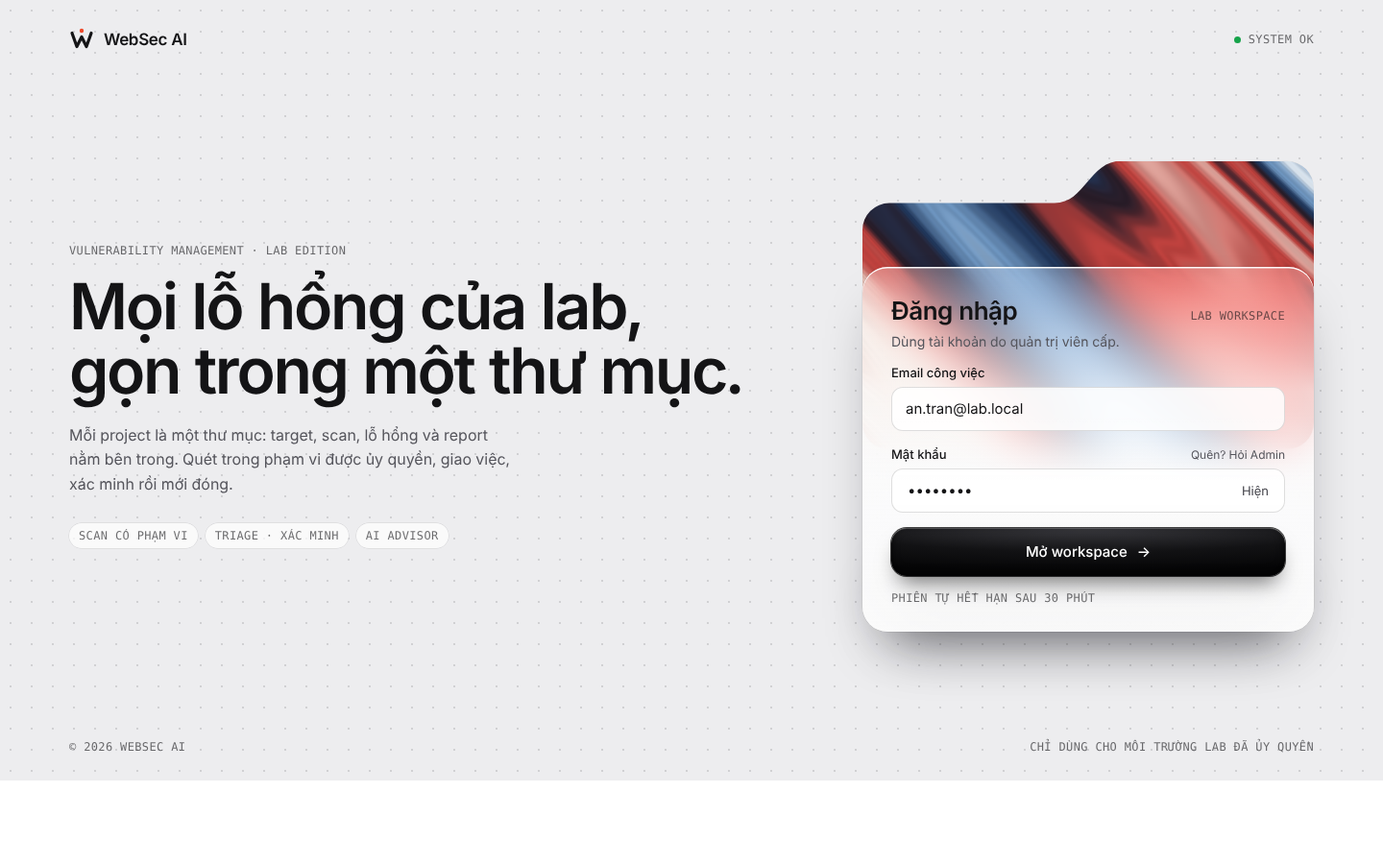
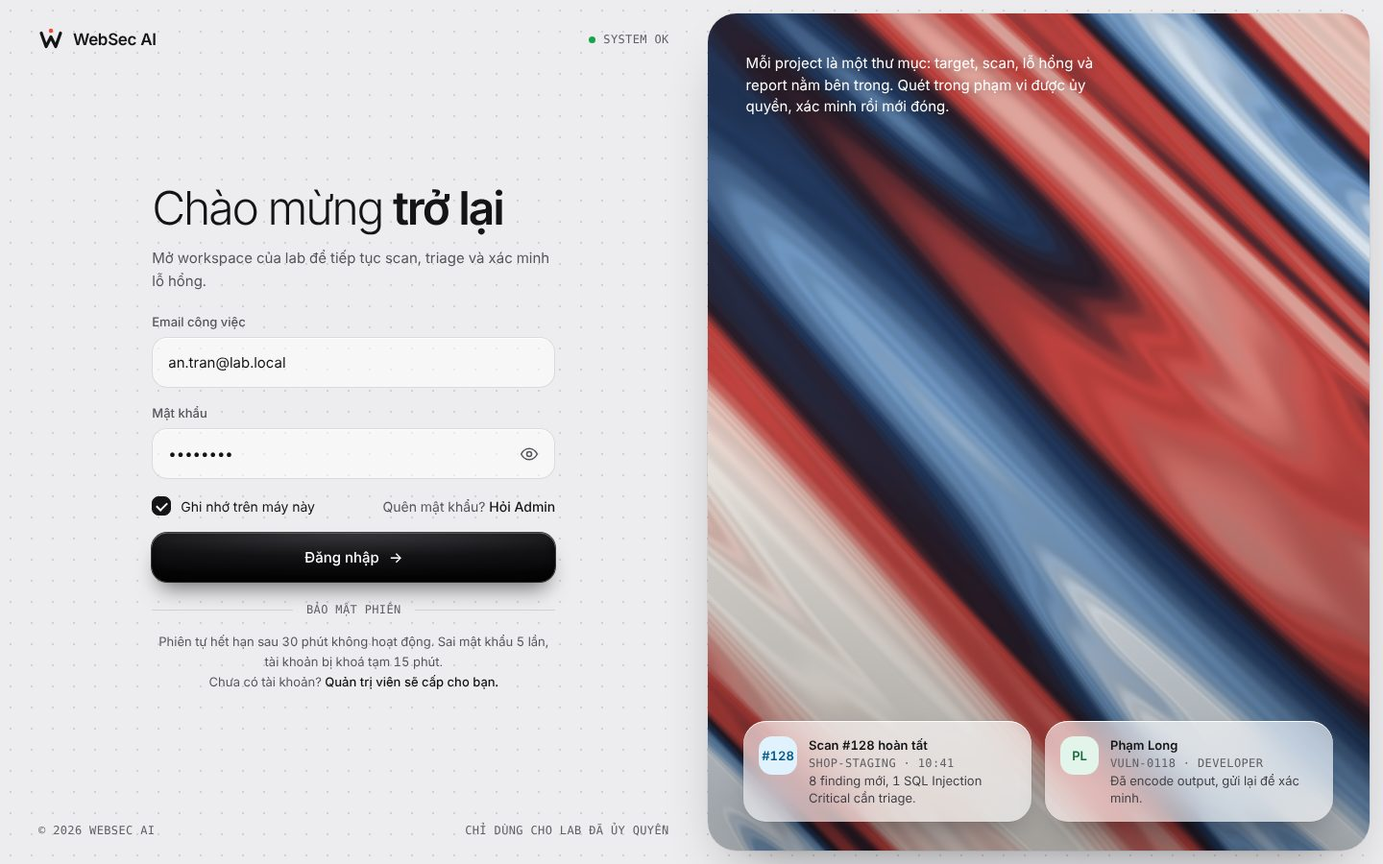
design: cập nhật màn Login theo bố cục sign-in kính
Form bên trái với ô nhập kính, ẩn/hiện mật khẩu, ghi nhớ đăng nhập;
bên phải ảnh aurora và thẻ hoạt động kính, hiệu ứng xuất hiện lần lượt.

Claude-Session: https://claude.ai/code/session_01LwojaGAzL5sjq8DHbyiojU

diff --git a/design/source/W01-Login.dc.html b/design/source/W01-Login.dc.html
@@ -11,75 +11,114 @@
 <style>
 body{margin:0;-webkit-font-smoothing:antialiased;font-variant-numeric:tabular-nums}
 *{box-sizing:border-box}
-input:focus-visible,button:focus-visible,a:focus-visible{outline:2px solid #4c8dff;outline-offset:2px}
-.lg{min-height:100vh;display:flex;flex-direction:column;padding:28px 5vw;background-color:#EDEDEF;background-image:radial-gradient(rgba(20,20,22,.13) 1.1px,transparent 1.4px);background-size:22px 22px;color:#141416;font-family:ui-sans-serif,system-ui,-apple-system,'SF Pro Text','Segoe UI',Roboto,'Helvetica Neue',Arial,sans-serif}
-.lg-main{flex:1;display:grid;grid-template-columns:1fr 470px;align-items:center;gap:64px;padding:40px 0}
-.lg-h1{margin:0 0 20px;font-size:clamp(40px,4.6vw,68px);line-height:1.02;font-weight:600;letter-spacing:-.035em}
-.lg-obj{position:relative;padding-top:110px}
-.lg-back{position:absolute;left:0;right:0;top:0;height:300px;border-radius:28px;overflow:hidden;clip-path:path('M0 72A28 28 0 0 1 28 44L200 44C232 44 236 0 270 0L442 0A28 28 0 0 1 470 28L470 300L0 300Z');box-shadow:0 0 0 .5px rgba(0,0,0,.1)}
-.lg-back img{width:100%;height:100%;object-fit:cover;display:block}
-.lg-front{position:relative;border-radius:26px;padding:30px 30px 28px;display:flex;flex-direction:column;gap:16px;background:linear-gradient(180deg,rgba(255,255,255,.28) 0%,rgba(255,255,255,.72) 34%,rgba(252,252,252,.94) 100%);-webkit-backdrop-filter:blur(22px) saturate(1.5);backdrop-filter:blur(22px) saturate(1.5);box-shadow:inset 0 1.5px 0 rgba(255,255,255,.95),0 0 0 .5px rgba(0,0,0,.1),0 30px 60px -24px rgba(10,12,20,.45)}
-.lg-shadow{position:absolute;left:24px;right:24px;bottom:-10px;height:70px;border-radius:40px;background:rgba(16,18,24,.3);filter:blur(26px)}
-.lg-input{height:46px;padding:0 14px;border:1px solid rgba(20,20,22,.14);border-radius:12px;background:rgba(255,255,255,.85);font:inherit;font-size:15px;color:#141416}
-.lg-key{display:flex;align-items:center;justify-content:center;gap:10px;height:50px;border-radius:16px;color:#fff;text-decoration:none;font-size:15px;font-weight:500;background:radial-gradient(120% 90% at 50% 0%,#3a3a3f 0%,#121214 55%,#050506 100%);box-shadow:inset 0 1px 0 rgba(255,255,255,.22),inset 0 -3px 8px rgba(0,0,0,.7),0 0 0 1px rgba(0,0,0,.75),0 14px 22px -8px rgba(0,0,0,.55);transition:transform .35s cubic-bezier(.34,1.36,.5,1)}
-.lg-key:hover{color:#fff;transform:translateY(-2px)}.lg-key:active{transform:scale(.97);transition-duration:.12s}
-.lg-mono{font-family:ui-monospace,'SF Mono',SFMono-Regular,Menlo,Consolas,monospace;font-size:12px;letter-spacing:.03em;color:rgba(20,20,22,.62)}
-@media(max-width:960px){.lg{padding:20px}.lg-main{grid-template-columns:1fr;gap:28px;padding:28px 0}.lg-sub{display:none}.lg-obj{max-width:470px;width:100%;justify-self:center}.lg-h1{font-size:34px}}
-@media(prefers-reduced-motion:reduce){.lg-key{transition:none}}
+:focus-visible{outline:2px solid #4c8dff;outline-offset:2px}
+.si{min-height:100vh;display:flex;background-color:#EDEDEF;background-image:radial-gradient(rgba(20,20,22,.13) 1.1px,transparent 1.4px);background-size:22px 22px;color:#141416;font-family:ui-sans-serif,system-ui,-apple-system,'SF Pro Text','Segoe UI',Roboto,'Helvetica Neue',Arial,sans-serif}
+.si-form{flex:1;min-width:0;display:flex;flex-direction:column;padding:28px 40px}
+.si-inner{flex:1;display:flex;align-items:center;justify-content:center}
+.si-box{width:100%;max-width:420px;display:flex;flex-direction:column;gap:22px}
+.si-h1{margin:0;font-size:48px;line-height:1.08;font-weight:300;letter-spacing:-.045em}
+.si-h1 b{font-weight:600}
+.si-label{display:block;margin-bottom:8px;font-size:13px;font-weight:500;color:#55555c}
+.si-glass{display:flex;align-items:center;border-radius:16px;border:1px solid rgba(20,20,22,.12);background:rgba(255,255,255,.55);-webkit-backdrop-filter:blur(10px);backdrop-filter:blur(10px);box-shadow:inset 0 1px 0 rgba(255,255,255,.9);transition:border-color .2s,background .2s,box-shadow .2s}
+.si-glass:focus-within{border-color:rgba(76,141,255,.7);background:rgba(76,141,255,.06);box-shadow:inset 0 1px 0 rgba(255,255,255,.9),0 0 0 4px rgba(76,141,255,.12)}
+.si-glass input{flex:1;min-width:0;padding:16px;border:none;background:transparent;font:inherit;font-size:15px;color:#141416;outline:none}
+.si-glass input::placeholder{color:#6b6b72}
+.si-eye{all:unset;display:grid;place-items:center;width:40px;height:40px;margin-right:6px;border-radius:12px;color:#55555c;cursor:pointer}
+.si-eye:hover{color:#141416;background:rgba(20,20,22,.05)}
+.si-key{display:flex;align-items:center;justify-content:center;gap:10px;width:100%;padding:16px;border:none;border-radius:16px;color:#fff;text-decoration:none;font:inherit;font-size:15px;font-weight:500;cursor:pointer;background:radial-gradient(120% 90% at 50% 0%,#3a3a3f 0%,#121214 55%,#050506 100%);box-shadow:inset 0 1px 0 rgba(255,255,255,.22),inset 0 -3px 8px rgba(0,0,0,.7),0 0 0 1px rgba(0,0,0,.75),0 14px 22px -8px rgba(0,0,0,.55);transition:transform .35s cubic-bezier(.34,1.36,.5,1)}
+.si-key:hover{color:#fff;transform:translateY(-2px)}.si-key:active{transform:scale(.98);transition-duration:.12s}
+.si-check{appearance:none;-webkit-appearance:none;width:20px;height:20px;margin:0;border-radius:7px;border:1px solid rgba(20,20,22,.22);background:rgba(255,255,255,.7);display:grid;place-items:center;cursor:pointer}
+.si-check:checked{background:#141416;border-color:#141416}
+.si-check:checked::after{content:"";width:9px;height:5px;border:2px solid #fff;border-top:0;border-right:0;transform:translate(0,-1px) rotate(-45deg)}
+.si-mono{font-family:ui-monospace,'SF Mono',SFMono-Regular,Menlo,Consolas,monospace;font-size:12px;letter-spacing:.03em;color:#5f5f66}
+.si-hero{flex:1.05;min-width:0;position:relative;padding:14px 14px 14px 0}
+.si-art{position:absolute;inset:14px 14px 14px 0;border-radius:30px;overflow:hidden;box-shadow:0 0 0 .5px rgba(0,0,0,.1),0 30px 60px -30px rgba(10,12,20,.45)}
+.si-art img{width:100%;height:100%;object-fit:cover;display:block}
+.si-art::after{content:"";position:absolute;inset:0;background:linear-gradient(180deg,rgba(0,0,0,0) 45%,rgba(0,0,0,.28) 100%)}
+.si-cards{position:absolute;left:0;right:14px;bottom:44px;display:flex;justify-content:center;gap:14px;padding:0 32px;z-index:1}
+.si-card{width:300px;display:flex;gap:12px;align-items:flex-start;padding:16px;border-radius:24px;background:rgba(255,255,255,.62);-webkit-backdrop-filter:blur(22px) saturate(1.5);backdrop-filter:blur(22px) saturate(1.5);box-shadow:inset 0 1px 0 rgba(255,255,255,.9),0 0 0 .5px rgba(0,0,0,.1),0 18px 36px -14px rgba(10,12,20,.4);font-size:13px;line-height:1.4}
+.si-av{flex:none;width:40px;height:40px;border-radius:14px;display:grid;place-items:center;font-size:13px;font-weight:600}
+.si-quote{position:absolute;left:40px;top:40px;right:40px;z-index:1;color:#fff;font-size:15px;line-height:1.5;max-width:380px;text-shadow:0 1px 12px rgba(0,0,0,.35)}
+.a-in{opacity:0;filter:blur(4px);transform:translateY(12px);animation:fadeSlideIn .7s cubic-bezier(.2,.8,.2,1) forwards}
+.a-right{opacity:0;filter:blur(6px);transform:translateX(28px);animation:slideRightIn .9s cubic-bezier(.2,.8,.2,1) .3s forwards}
+.a-card{opacity:0;filter:blur(6px);transform:translateY(18px) scale(.96);animation:testimonialIn .8s cubic-bezier(.34,1.36,.5,1) forwards}
+.d1{animation-delay:.1s}.d2{animation-delay:.2s}.d3{animation-delay:.3s}.d4{animation-delay:.4s}.d5{animation-delay:.5s}.d6{animation-delay:.6s}.d7{animation-delay:.7s}.d10{animation-delay:1s}.d12{animation-delay:1.2s}.d14{animation-delay:1.4s}
+@keyframes fadeSlideIn{to{opacity:1;filter:blur(0);transform:translateY(0)}}
+@keyframes slideRightIn{to{opacity:1;filter:blur(0);transform:translateX(0)}}
+@keyframes testimonialIn{to{opacity:1;filter:blur(0);transform:translateY(0) scale(1)}}
+@media(max-width:1560px){.si-c3{display:none}}
+@media(max-width:1180px){.si-c2{display:none}}
+@media(max-width:860px){.si-hero{display:none}.si-form{padding:20px}.si-h1{font-size:38px}}
+@media(prefers-reduced-motion:reduce){.a-in,.a-right,.a-card{animation:none;opacity:1;filter:none;transform:none}.si-key,.si-glass{transition:none}}
 </style>
 </helmet>
-<div class="lg">
-<div style="display: flex; align-items: center; justify-content: space-between; gap: 16px">
+<div class="si">
+<section class="si-form">
+<div class="a-in" style="display: flex; align-items: center; justify-content: space-between; gap: 16px">
 <span style="display: inline-flex; align-items: center; gap: 10px"><svg aria-hidden="true" width="26" height="26" viewBox="0 0 26 26"><path d="M3 6.5l5 14 5-10 5 10 5-14" fill="none" stroke="#141416" stroke-width="3.2" stroke-linecap="round" stroke-linejoin="round"/><circle cx="13" cy="4" r="2.2" fill="#EF4A2B"/></svg><b style="font-size: 17px; font-weight: 600; letter-spacing: -0.02em">WebSec AI</b></span>
-<span class="lg-mono" style="display: inline-flex; align-items: center; gap: 8px"><span aria-hidden="true" style="width: 7px; height: 7px; border-radius: 4px; background: #16A34A"></span>SYSTEM OK</span>
+<span class="si-mono" style="display: inline-flex; align-items: center; gap: 8px"><span aria-hidden="true" style="width: 7px; height: 7px; border-radius: 4px; background: #16A34A"></span>SYSTEM OK</span>
 </div>
 
-<main class="lg-main">
-<div>
-<p class="lg-mono" style="margin: 0 0 18px">VULNERABILITY MANAGEMENT · LAB EDITION</p>
-<h1 class="lg-h1">Mọi lỗ hổng của lab,<br>gọn trong một thư mục.</h1>
-<p class="lg-sub" style="margin: 0; max-width: 470px; font-size: 16px; line-height: 1.6; color: #55555c">Mỗi project là một thư mục: target, scan, lỗ hổng và report nằm bên trong. Quét trong phạm vi được ủy quyền, giao việc, xác minh rồi mới đóng.</p>
-<div class="lg-sub" style="display: flex; flex-wrap: wrap; gap: 8px; margin-top: 28px">
-<span class="lg-mono" style="padding: 6px 10px; border-radius: 999px; background: rgba(255,255,255,.7); box-shadow: 0 0 0 .5px rgba(0,0,0,.12)">SCAN CÓ PHẠM VI</span>
-<span class="lg-mono" style="padding: 6px 10px; border-radius: 999px; background: rgba(255,255,255,.7); box-shadow: 0 0 0 .5px rgba(0,0,0,.12)">TRIAGE · XÁC MINH</span>
-<span class="lg-mono" style="padding: 6px 10px; border-radius: 999px; background: rgba(255,255,255,.7); box-shadow: 0 0 0 .5px rgba(0,0,0,.12)">AI ADVISOR</span>
-</div>
-</div>
-
-<div class="lg-obj">
-<div class="lg-shadow" aria-hidden="true"></div>
-<div class="lg-back" aria-hidden="true"><img src="art/aurora-8.png" alt="" width="470" height="300"></div>
-<section class="lg-front" aria-labelledby="login-title">
-<div style="display: flex; justify-content: space-between; align-items: baseline; gap: 12px"><h2 id="login-title" style="margin: 0; font-size: 26px; font-weight: 600; letter-spacing: -0.02em">Đăng nhập</h2><span class="lg-mono">LAB WORKSPACE</span></div>
-<p style="margin: -8px 0 0; font-size: 14px; color: #55555c">Dùng tài khoản do quản trị viên cấp.</p>
+<div class="si-inner">
+<div class="si-box">
+<h1 class="si-h1 a-in d1">Chào mừng <b>trở lại</b></h1>
+<p class="a-in d2" style="margin: -8px 0 0; font-size: 15px; line-height: 1.6; color: #55555c">Mở workspace của lab để tiếp tục scan, triage và xác minh lỗ hổng.</p>
 
 <sc-if value="{{ isError }}" hint-placeholder-val="{{ false }}">
-<div role="alert" style="display: flex; gap: 10px; padding: 12px 14px; background: rgba(254, 236, 235, .9); color: #831C1E; border-radius: 12px; font-size: 14px; line-height: 21px"><svg aria-hidden="true" width="18" height="18" viewBox="0 0 24 24" fill="none" stroke="currentColor" stroke-width="2" stroke-linecap="round" style="flex: none; margin-top: 2px"><circle cx="12" cy="12" r="9"/><path d="M12 8v5M12 16h.01"/></svg><span><b style="font-weight: 600">Email hoặc mật khẩu không đúng.</b> Còn 3 lần thử trước khi bị khoá 15 phút.</span></div>
+<div role="alert" class="a-in" style="display: flex; gap: 10px; padding: 12px 14px; background: rgba(254, 236, 235, .85); color: #831C1E; border-radius: 16px; font-size: 14px; line-height: 21px"><svg aria-hidden="true" width="18" height="18" viewBox="0 0 24 24" fill="none" stroke="currentColor" stroke-width="2" stroke-linecap="round" style="flex: none; margin-top: 2px"><circle cx="12" cy="12" r="9"/><path d="M12 8v5M12 16h.01"/></svg><span><b style="font-weight: 600">Email hoặc mật khẩu không đúng.</b> Còn 3 lần thử trước khi tài khoản bị khoá 15 phút.</span></div>
 </sc-if>
 <sc-if value="{{ isLocked }}" hint-placeholder-val="{{ false }}">
-<div role="alert" style="display: flex; gap: 10px; padding: 12px 14px; background: rgba(255, 244, 214, .92); color: #7A4A00; border-radius: 12px; font-size: 14px; line-height: 21px"><svg aria-hidden="true" width="18" height="18" viewBox="0 0 24 24" fill="none" stroke="currentColor" stroke-width="2" stroke-linecap="round" style="flex: none; margin-top: 2px"><rect x="5" y="11" width="14" height="10" rx="2"/><path d="M8 11V7a4 4 0 0 1 8 0v4"/></svg><span><b style="font-weight: 600">Tài khoản đang bị khoá.</b> Liên hệ quản trị viên để được mở khoá.</span></div>
+<div role="alert" class="a-in" style="display: flex; gap: 10px; padding: 12px 14px; background: rgba(255, 244, 214, .9); color: #7A4A00; border-radius: 16px; font-size: 14px; line-height: 21px"><svg aria-hidden="true" width="18" height="18" viewBox="0 0 24 24" fill="none" stroke="currentColor" stroke-width="2" stroke-linecap="round" style="flex: none; margin-top: 2px"><rect x="5" y="11" width="14" height="10" rx="2"/><path d="M8 11V7a4 4 0 0 1 8 0v4"/></svg><span><b style="font-weight: 600">Tài khoản đang bị khoá.</b> Liên hệ quản trị viên để được mở khoá.</span></div>
 </sc-if>
 
-<div style="display: flex; flex-direction: column; gap: 7px"><label for="email" style="font-size: 13px; font-weight: 500">Email công việc</label><input id="email" class="lg-input" type="email" autocomplete="username" value="an.tran@lab.local"></div>
-<div style="display: flex; flex-direction: column; gap: 7px">
-<span style="display: flex; justify-content: space-between; align-items: baseline; gap: 8px"><label for="pw" style="font-size: 13px; font-weight: 500">Mật khẩu</label><span style="font-size: 12px; color: #55555c">Quên? Hỏi Admin</span></span>
-<span style="display: flex; align-items: center; height: 46px; padding: 0 6px 0 14px; border: 1px solid {{ pwBorder }}; border-radius: 12px; background: rgba(255,255,255,.85)"><input id="pw" type="password" autocomplete="current-password" value="password" aria-describedby="{{ pwHintId }}" style="flex: 1; min-width: 0; border: none; background: transparent; font: inherit; font-size: 15px; color: #141416"><button type="button" aria-label="Hiện mật khẩu" style="height: 34px; padding: 0 10px; border: none; border-radius: 10px; background: transparent; font: inherit; font-size: 13px; color: #3f3f46">Hiện</button></span>
-<sc-if value="{{ isError }}" hint-placeholder-val="{{ false }}"><span id="pw-hint" style="font-size: 13px; color: #B42318">Mật khẩu đã được xoá, hãy nhập lại.</span></sc-if>
+<form style="display: flex; flex-direction: column; gap: 18px" onsubmit="return false">
+<div class="a-in d3"><label class="si-label" for="email">Email công việc</label><div class="si-glass"><input id="email" name="email" type="email" autocomplete="username" placeholder="ten@lab.local" value="an.tran@lab.local"></div></div>
+<div class="a-in d4">
+<label class="si-label" for="pw">Mật khẩu</label>
+<div class="si-glass" style="border-color: {{ pwBorder }}"><input id="pw" name="password" type="{{ pwType }}" autocomplete="current-password" placeholder="Nhập mật khẩu" value="password" aria-describedby="{{ pwHintId }}"><button type="button" class="si-eye" aria-label="{{ eyeLabel }}" aria-pressed="{{ pwShown }}" onClick="{{ toggleEye }}">
+<sc-if value="{{ eyeOpen }}" hint-placeholder-val="{{ true }}"><svg aria-hidden="true" width="20" height="20" viewBox="0 0 24 24" fill="none" stroke="currentColor" stroke-width="1.8" stroke-linecap="round" stroke-linejoin="round"><path d="M2 12s3.5-7 10-7 10 7 10 7-3.5 7-10 7S2 12 2 12z"/><circle cx="12" cy="12" r="3"/></svg></sc-if>
+<sc-if value="{{ eyeClosed }}" hint-placeholder-val="{{ false }}"><svg aria-hidden="true" width="20" height="20" viewBox="0 0 24 24" fill="none" stroke="currentColor" stroke-width="1.8" stroke-linecap="round" stroke-linejoin="round"><path d="M10.7 5.1A10.4 10.4 0 0 1 12 5c6.5 0 10 7 10 7a17.6 17.6 0 0 1-2.2 3.2M6.6 6.6A17.4 17.4 0 0 0 2 12s3.5 7 10 7a9.7 9.7 0 0 0 5.4-1.6M3 3l18 18M9.9 9.9a3 3 0 0 0 4.2 4.2"/></svg></sc-if>
+</button></div>
+<sc-if value="{{ isError }}" hint-placeholder-val="{{ false }}"><span id="pw-hint" style="display: block; margin-top: 6px; font-size: 13px; color: #B42318">Mật khẩu đã được xoá, hãy nhập lại.</span></sc-if>
 </div>
-<sc-if value="{{ isLoading }}" hint-placeholder-val="{{ false }}"><button type="button" disabled aria-busy="true" class="lg-key" style="width: 100%; border: none; font: inherit; font-size: 15px; opacity: .7">Đang đăng nhập…</button></sc-if>
-<sc-if value="{{ notLoading }}" hint-placeholder-val="{{ true }}"><a href="W02-Dashboard.dc.html" class="lg-key">Mở workspace<span aria-hidden="true">→</span></a></sc-if>
-<p class="lg-mono" style="margin: 0">PHIÊN TỰ HẾT HẠN SAU 30 PHÚT</p>
+<div class="a-in d5" style="display: flex; align-items: center; justify-content: space-between; gap: 12px; font-size: 14px">
+<label style="display: inline-flex; align-items: center; gap: 10px; cursor: pointer"><input type="checkbox" class="si-check" name="remember" checked>Ghi nhớ trên máy này</label>
+<span style="color: #55555c">Quên mật khẩu? <b style="font-weight: 500; color: #141416">Hỏi Admin</b></span>
+</div>
+<sc-if value="{{ isLoading }}" hint-placeholder-val="{{ false }}"><button type="button" disabled aria-busy="true" class="si-key" style="opacity: .7">Đang mở workspace…</button></sc-if>
+<sc-if value="{{ notLoading }}" hint-placeholder-val="{{ true }}"><a href="W02-Dashboard.dc.html" class="si-key a-in d6">Đăng nhập<span aria-hidden="true">→</span></a></sc-if>
+</form>
+
+<div class="a-in d7" style="display: flex; align-items: center; gap: 14px; color: #5f5f66"><span style="flex: 1; height: 1px; background: rgba(20,20,22,.12)"></span><span class="si-mono">BẢO MẬT PHIÊN</span><span style="flex: 1; height: 1px; background: rgba(20,20,22,.12)"></span></div>
+<p class="a-in d7" style="margin: -6px 0 0; text-align: center; font-size: 13px; line-height: 1.6; color: #55555c">Phiên tự hết hạn sau 30 phút không hoạt động. Sai mật khẩu 5 lần, tài khoản bị khoá tạm 15 phút.<br>Chưa có tài khoản? <b style="font-weight: 500; color: #141416">Quản trị viên sẽ cấp cho bạn.</b></p>
+</div>
+</div>
+<p class="si-mono" style="margin: 0; display: flex; justify-content: space-between; gap: 12px; flex-wrap: wrap"><span>© 2026 WEBSEC AI</span><span>CHỈ DÙNG CHO LAB ĐÃ ỦY QUYỀN</span></p>
 </section>
+
+<section class="si-hero" aria-label="Hoạt động gần đây trong workspace">
+<div class="si-art a-right"><img src="art/aurora-8.png" alt="" width="720" height="900"></div>
+<p class="si-quote a-in d6">Mỗi project là một thư mục: target, scan, lỗ hổng và report nằm bên trong. Quét trong phạm vi được ủy quyền, xác minh rồi mới đóng.</p>
+<div class="si-cards">
+<div class="si-card a-card d10"><span class="si-av" style="background: #E0F2FE; color: #075985">#128</span><span><b style="font-weight: 600">Scan #128 hoàn tất</b><br><span class="si-mono">SHOP-STAGING · 10:41</span><br><span style="color: #3f3f46">8 finding mới, 1 SQL Injection Critical cần triage.</span></span></div>
+<div class="si-card si-c2 a-card d12"><span class="si-av" style="background: #E3F4EA; color: #146C3B">PL</span><span><b style="font-weight: 600">Phạm Long</b><br><span class="si-mono">VULN-0118 · DEVELOPER</span><br><span style="color: #3f3f46">Đã encode output, gửi lại để xác minh.</span></span></div>
+<div class="si-card si-c3 a-card d14"><span class="si-av" style="background: #141416; color: #fff">AI</span><span><b style="font-weight: 600">AI Advisor</b><br><span class="si-mono">GỢI Ý · ĐÃ CHE SECRET</span><br><span style="color: #3f3f46">Dùng truy vấn tham số hoá cho /search?q.</span></span></div>
 </div>
-</main>
-<p class="lg-mono" style="margin: 0; display: flex; justify-content: space-between; gap: 12px; flex-wrap: wrap"><span>© 2026 WEBSEC AI</span><span>CHỈ DÙNG CHO MÔI TRƯỜNG LAB ĐÃ ỦY QUYỀN</span></p>
+</section>
 </div>
 </x-dc>
 <script type="text/x-dc" data-dc-script data-props='{"state":{"editor":"enum","options":["default","loading","error","locked"],"default":"default"},"$preview":{"width":1440,"height":900}}'>
 class Component extends DCLogic {
 renderVals() {
 const s = this.props.state ?? 'default';
-return { isError: s === 'error', isLocked: s === 'locked', isLoading: s === 'loading', notLoading: s !== 'loading', pwBorder: s === 'error' ? '#D92D20' : 'rgba(20,20,22,.14)', pwHintId: s === 'error' ? 'pw-hint' : '' };
+const shown = !!(this.state || {}).shown;
+return {
+isError: s === 'error', isLocked: s === 'locked', isLoading: s === 'loading', notLoading: s !== 'loading',
+pwBorder: s === 'error' ? '#D92D20' : 'rgba(20,20,22,.12)', pwHintId: s === 'error' ? 'pw-hint' : '',
+pwType: shown ? 'text' : 'password', pwShown: String(shown), eyeOpen: !shown, eyeClosed: shown,
+eyeLabel: shown ? 'Ẩn mật khẩu' : 'Hiện mật khẩu',
+toggleEye: () => this.setState({ shown: !shown })
+};
 }
 }
 </script>

diff --git a/design/screens/W01-Login.html b/design/screens/W01-Login.html
@@ -2,64 +2,96 @@
 <style>
 body{margin:0;-webkit-font-smoothing:antialiased;font-variant-numeric:tabular-nums}
 *{box-sizing:border-box}
-input:focus-visible,button:focus-visible,a:focus-visible{outline:2px solid #4c8dff;outline-offset:2px}
-.lg{min-height:100vh;display:flex;flex-direction:column;padding:28px 5vw;background-color:#EDEDEF;background-image:radial-gradient(rgba(20,20,22,.13) 1.1px,transparent 1.4px);background-size:22px 22px;color:#141416;font-family:ui-sans-serif,system-ui,-apple-system,'SF Pro Text','Segoe UI',Roboto,'Helvetica Neue',Arial,sans-serif}
-.lg-main{flex:1;display:grid;grid-template-columns:1fr 470px;align-items:center;gap:64px;padding:40px 0}
-.lg-h1{margin:0 0 20px;font-size:clamp(40px,4.6vw,68px);line-height:1.02;font-weight:600;letter-spacing:-.035em}
-.lg-obj{position:relative;padding-top:110px}
-.lg-back{position:absolute;left:0;right:0;top:0;height:300px;border-radius:28px;overflow:hidden;clip-path:path('M0 72A28 28 0 0 1 28 44L200 44C232 44 236 0 270 0L442 0A28 28 0 0 1 470 28L470 300L0 300Z');box-shadow:0 0 0 .5px rgba(0,0,0,.1)}
-.lg-back img{width:100%;height:100%;object-fit:cover;display:block}
-.lg-front{position:relative;border-radius:26px;padding:30px 30px 28px;display:flex;flex-direction:column;gap:16px;background:linear-gradient(180deg,rgba(255,255,255,.28) 0%,rgba(255,255,255,.72) 34%,rgba(252,252,252,.94) 100%);-webkit-backdrop-filter:blur(22px) saturate(1.5);backdrop-filter:blur(22px) saturate(1.5);box-shadow:inset 0 1.5px 0 rgba(255,255,255,.95),0 0 0 .5px rgba(0,0,0,.1),0 30px 60px -24px rgba(10,12,20,.45)}
-.lg-shadow{position:absolute;left:24px;right:24px;bottom:-10px;height:70px;border-radius:40px;background:rgba(16,18,24,.3);filter:blur(26px)}
-.lg-input{height:46px;padding:0 14px;border:1px solid rgba(20,20,22,.14);border-radius:12px;background:rgba(255,255,255,.85);font:inherit;font-size:15px;color:#141416}
-.lg-key{display:flex;align-items:center;justify-content:center;gap:10px;height:50px;border-radius:16px;color:#fff;text-decoration:none;font-size:15px;font-weight:500;background:radial-gradient(120% 90% at 50% 0%,#3a3a3f 0%,#121214 55%,#050506 100%);box-shadow:inset 0 1px 0 rgba(255,255,255,.22),inset 0 -3px 8px rgba(0,0,0,.7),0 0 0 1px rgba(0,0,0,.75),0 14px 22px -8px rgba(0,0,0,.55);transition:transform .35s cubic-bezier(.34,1.36,.5,1)}
-.lg-key:hover{color:#fff;transform:translateY(-2px)}.lg-key:active{transform:scale(.97);transition-duration:.12s}
-.lg-mono{font-family:ui-monospace,'SF Mono',SFMono-Regular,Menlo,Consolas,monospace;font-size:12px;letter-spacing:.03em;color:rgba(20,20,22,.62)}
-@media(max-width:960px){.lg{padding:20px}.lg-main{grid-template-columns:1fr;gap:28px;padding:28px 0}.lg-sub{display:none}.lg-obj{max-width:470px;width:100%;justify-self:center}.lg-h1{font-size:34px}}
-@media(prefers-reduced-motion:reduce){.lg-key{transition:none}}
+:focus-visible{outline:2px solid #4c8dff;outline-offset:2px}
+.si{min-height:100vh;display:flex;background-color:#EDEDEF;background-image:radial-gradient(rgba(20,20,22,.13) 1.1px,transparent 1.4px);background-size:22px 22px;color:#141416;font-family:ui-sans-serif,system-ui,-apple-system,'SF Pro Text','Segoe UI',Roboto,'Helvetica Neue',Arial,sans-serif}
+.si-form{flex:1;min-width:0;display:flex;flex-direction:column;padding:28px 40px}
+.si-inner{flex:1;display:flex;align-items:center;justify-content:center}
+.si-box{width:100%;max-width:420px;display:flex;flex-direction:column;gap:22px}
+.si-h1{margin:0;font-size:48px;line-height:1.08;font-weight:300;letter-spacing:-.045em}
+.si-h1 b{font-weight:600}
+.si-label{display:block;margin-bottom:8px;font-size:13px;font-weight:500;color:#55555c}
+.si-glass{display:flex;align-items:center;border-radius:16px;border:1px solid rgba(20,20,22,.12);background:rgba(255,255,255,.55);-webkit-backdrop-filter:blur(10px);backdrop-filter:blur(10px);box-shadow:inset 0 1px 0 rgba(255,255,255,.9);transition:border-color .2s,background .2s,box-shadow .2s}
+.si-glass:focus-within{border-color:rgba(76,141,255,.7);background:rgba(76,141,255,.06);box-shadow:inset 0 1px 0 rgba(255,255,255,.9),0 0 0 4px rgba(76,141,255,.12)}
+.si-glass input{flex:1;min-width:0;padding:16px;border:none;background:transparent;font:inherit;font-size:15px;color:#141416;outline:none}
+.si-glass input::placeholder{color:#6b6b72}
+.si-eye{all:unset;display:grid;place-items:center;width:40px;height:40px;margin-right:6px;border-radius:12px;color:#55555c;cursor:pointer}
+.si-eye:hover{color:#141416;background:rgba(20,20,22,.05)}
+.si-key{display:flex;align-items:center;justify-content:center;gap:10px;width:100%;padding:16px;border:none;border-radius:16px;color:#fff;text-decoration:none;font:inherit;font-size:15px;font-weight:500;cursor:pointer;background:radial-gradient(120% 90% at 50% 0%,#3a3a3f 0%,#121214 55%,#050506 100%);box-shadow:inset 0 1px 0 rgba(255,255,255,.22),inset 0 -3px 8px rgba(0,0,0,.7),0 0 0 1px rgba(0,0,0,.75),0 14px 22px -8px rgba(0,0,0,.55);transition:transform .35s cubic-bezier(.34,1.36,.5,1)}
+.si-key:hover{color:#fff;transform:translateY(-2px)}.si-key:active{transform:scale(.98);transition-duration:.12s}
+.si-check{appearance:none;-webkit-appearance:none;width:20px;height:20px;margin:0;border-radius:7px;border:1px solid rgba(20,20,22,.22);background:rgba(255,255,255,.7);display:grid;place-items:center;cursor:pointer}
+.si-check:checked{background:#141416;border-color:#141416}
+.si-check:checked::after{content:"";width:9px;height:5px;border:2px solid #fff;border-top:0;border-right:0;transform:translate(0,-1px) rotate(-45deg)}
+.si-mono{font-family:ui-monospace,'SF Mono',SFMono-Regular,Menlo,Consolas,monospace;font-size:12px;letter-spacing:.03em;color:#5f5f66}
+.si-hero{flex:1.05;min-width:0;position:relative;padding:14px 14px 14px 0}
+.si-art{position:absolute;inset:14px 14px 14px 0;border-radius:30px;overflow:hidden;box-shadow:0 0 0 .5px rgba(0,0,0,.1),0 30px 60px -30px rgba(10,12,20,.45)}
+.si-art img{width:100%;height:100%;object-fit:cover;display:block}
+.si-art::after{content:"";position:absolute;inset:0;background:linear-gradient(180deg,rgba(0,0,0,0) 45%,rgba(0,0,0,.28) 100%)}
+.si-cards{position:absolute;left:0;right:14px;bottom:44px;display:flex;justify-content:center;gap:14px;padding:0 32px;z-index:1}
+.si-card{width:300px;display:flex;gap:12px;align-items:flex-start;padding:16px;border-radius:24px;background:rgba(255,255,255,.62);-webkit-backdrop-filter:blur(22px) saturate(1.5);backdrop-filter:blur(22px) saturate(1.5);box-shadow:inset 0 1px 0 rgba(255,255,255,.9),0 0 0 .5px rgba(0,0,0,.1),0 18px 36px -14px rgba(10,12,20,.4);font-size:13px;line-height:1.4}
+.si-av{flex:none;width:40px;height:40px;border-radius:14px;display:grid;place-items:center;font-size:13px;font-weight:600}
+.si-quote{position:absolute;left:40px;top:40px;right:40px;z-index:1;color:#fff;font-size:15px;line-height:1.5;max-width:380px;text-shadow:0 1px 12px rgba(0,0,0,.35)}
+.a-in{opacity:0;filter:blur(4px);transform:translateY(12px);animation:fadeSlideIn .7s cubic-bezier(.2,.8,.2,1) forwards}
+.a-right{opacity:0;filter:blur(6px);transform:translateX(28px);animation:slideRightIn .9s cubic-bezier(.2,.8,.2,1) .3s forwards}
+.a-card{opacity:0;filter:blur(6px);transform:translateY(18px) scale(.96);animation:testimonialIn .8s cubic-bezier(.34,1.36,.5,1) forwards}
+.d1{animation-delay:.1s}.d2{animation-delay:.2s}.d3{animation-delay:.3s}.d4{animation-delay:.4s}.d5{animation-delay:.5s}.d6{animation-delay:.6s}.d7{animation-delay:.7s}.d10{animation-delay:1s}.d12{animation-delay:1.2s}.d14{animation-delay:1.4s}
+@keyframes fadeSlideIn{to{opacity:1;filter:blur(0);transform:translateY(0)}}
+@keyframes slideRightIn{to{opacity:1;filter:blur(0);transform:translateX(0)}}
+@keyframes testimonialIn{to{opacity:1;filter:blur(0);transform:translateY(0) scale(1)}}
+@media(max-width:1560px){.si-c3{display:none}}
+@media(max-width:1180px){.si-c2{display:none}}
+@media(max-width:860px){.si-hero{display:none}.si-form{padding:20px}.si-h1{font-size:38px}}
+@media(prefers-reduced-motion:reduce){.a-in,.a-right,.a-card{animation:none;opacity:1;filter:none;transform:none}.si-key,.si-glass{transition:none}}
 </style>
 </head><body>
 
-<div class="lg">
-<div style="display: flex; align-items: center; justify-content: space-between; gap: 16px">
+<div class="si">
+<section class="si-form">
+<div class="a-in" style="display: flex; align-items: center; justify-content: space-between; gap: 16px">
 <span style="display: inline-flex; align-items: center; gap: 10px"><svg aria-hidden="true" width="26" height="26" viewBox="0 0 26 26"><path d="M3 6.5l5 14 5-10 5 10 5-14" fill="none" stroke="#141416" stroke-width="3.2" stroke-linecap="round" stroke-linejoin="round"/><circle cx="13" cy="4" r="2.2" fill="#EF4A2B"/></svg><b style="font-size: 17px; font-weight: 600; letter-spacing: -0.02em">WebSec AI</b></span>
-<span class="lg-mono" style="display: inline-flex; align-items: center; gap: 8px"><span aria-hidden="true" style="width: 7px; height: 7px; border-radius: 4px; background: #16A34A"></span>SYSTEM OK</span>
+<span class="si-mono" style="display: inline-flex; align-items: center; gap: 8px"><span aria-hidden="true" style="width: 7px; height: 7px; border-radius: 4px; background: #16A34A"></span>SYSTEM OK</span>
 </div>
 
-<main class="lg-main">
-<div>
-<p class="lg-mono" style="margin: 0 0 18px">VULNERABILITY MANAGEMENT · LAB EDITION</p>
-<h1 class="lg-h1">Mọi lỗ hổng của lab,<br>gọn trong một thư mục.</h1>
-<p class="lg-sub" style="margin: 0; max-width: 470px; font-size: 16px; line-height: 1.6; color: #55555c">Mỗi project là một thư mục: target, scan, lỗ hổng và report nằm bên trong. Quét trong phạm vi được ủy quyền, giao việc, xác minh rồi mới đóng.</p>
-<div class="lg-sub" style="display: flex; flex-wrap: wrap; gap: 8px; margin-top: 28px">
-<span class="lg-mono" style="padding: 6px 10px; border-radius: 999px; background: rgba(255,255,255,.7); box-shadow: 0 0 0 .5px rgba(0,0,0,.12)">SCAN CÓ PHẠM VI</span>
-<span class="lg-mono" style="padding: 6px 10px; border-radius: 999px; background: rgba(255,255,255,.7); box-shadow: 0 0 0 .5px rgba(0,0,0,.12)">TRIAGE · XÁC MINH</span>
-<span class="lg-mono" style="padding: 6px 10px; border-radius: 999px; background: rgba(255,255,255,.7); box-shadow: 0 0 0 .5px rgba(0,0,0,.12)">AI ADVISOR</span>
-</div>
-</div>
-
-<div class="lg-obj">
-<div class="lg-shadow" aria-hidden="true"></div>
-<div class="lg-back" aria-hidden="true"><img src="art/aurora-8.png" alt="" width="470" height="300"></div>
-<section class="lg-front" aria-labelledby="login-title">
-<div style="display: flex; justify-content: space-between; align-items: baseline; gap: 12px"><h2 id="login-title" style="margin: 0; font-size: 26px; font-weight: 600; letter-spacing: -0.02em">Đăng nhập</h2><span class="lg-mono">LAB WORKSPACE</span></div>
-<p style="margin: -8px 0 0; font-size: 14px; color: #55555c">Dùng tài khoản do quản trị viên cấp.</p>
+<div class="si-inner">
+<div class="si-box">
+<h1 class="si-h1 a-in d1">Chào mừng <b>trở lại</b></h1>
+<p class="a-in d2" style="margin: -8px 0 0; font-size: 15px; line-height: 1.6; color: #55555c">Mở workspace của lab để tiếp tục scan, triage và xác minh lỗ hổng.</p>
 
 
 
 
-<div style="display: flex; flex-direction: column; gap: 7px"><label for="email" style="font-size: 13px; font-weight: 500">Email công việc</label><input id="email" class="lg-input" type="email" autocomplete="username" value="an.tran@lab.local"></div>
-<div style="display: flex; flex-direction: column; gap: 7px">
-<span style="display: flex; justify-content: space-between; align-items: baseline; gap: 8px"><label for="pw" style="font-size: 13px; font-weight: 500">Mật khẩu</label><span style="font-size: 12px; color: #55555c">Quên? Hỏi Admin</span></span>
-<span style="display: flex; align-items: center; height: 46px; padding: 0 6px 0 14px; border: 1px solid rgba(20,20,22,.14); border-radius: 12px; background: rgba(255,255,255,.85)"><input id="pw" type="password" autocomplete="current-password" value="password" aria-describedby="" style="flex: 1; min-width: 0; border: none; background: transparent; font: inherit; font-size: 15px; color: #141416"><button type="button" aria-label="Hiện mật khẩu" style="height: 34px; padding: 0 10px; border: none; border-radius: 10px; background: transparent; font: inherit; font-size: 13px; color: #3f3f46">Hiện</button></span>
+<form style="display: flex; flex-direction: column; gap: 18px" onsubmit="return false">
+<div class="a-in d3"><label class="si-label" for="email">Email công việc</label><div class="si-glass"><input id="email" name="email" type="email" autocomplete="username" placeholder="ten@lab.local" value="an.tran@lab.local"></div></div>
+<div class="a-in d4">
+<label class="si-label" for="pw">Mật khẩu</label>
+<div class="si-glass" style="border-color: rgba(20,20,22,.12)"><input id="pw" name="password" type="password" autocomplete="current-password" placeholder="Nhập mật khẩu" value="password" aria-describedby=""><button type="button" class="si-eye" aria-label="Hiện mật khẩu" aria-pressed="false">
+<svg aria-hidden="true" width="20" height="20" viewBox="0 0 24 24" fill="none" stroke="currentColor" stroke-width="1.8" stroke-linecap="round" stroke-linejoin="round"><path d="M2 12s3.5-7 10-7 10 7 10 7-3.5 7-10 7S2 12 2 12z"/><circle cx="12" cy="12" r="3"/></svg>
+
+</button></div>
 
 </div>
+<div class="a-in d5" style="display: flex; align-items: center; justify-content: space-between; gap: 12px; font-size: 14px">
+<label style="display: inline-flex; align-items: center; gap: 10px; cursor: pointer"><input type="checkbox" class="si-check" name="remember" checked>Ghi nhớ trên máy này</label>
+<span style="color: #55555c">Quên mật khẩu? <b style="font-weight: 500; color: #141416">Hỏi Admin</b></span>
+</div>
 
-<a href="W02-Dashboard.html" class="lg-key">Mở workspace<span aria-hidden="true">→</span></a>
-<p class="lg-mono" style="margin: 0">PHIÊN TỰ HẾT HẠN SAU 30 PHÚT</p>
+<a href="W02-Dashboard.html" class="si-key a-in d6">Đăng nhập<span aria-hidden="true">→</span></a>
+</form>
+
+<div class="a-in d7" style="display: flex; align-items: center; gap: 14px; color: #5f5f66"><span style="flex: 1; height: 1px; background: rgba(20,20,22,.12)"></span><span class="si-mono">BẢO MẬT PHIÊN</span><span style="flex: 1; height: 1px; background: rgba(20,20,22,.12)"></span></div>
+<p class="a-in d7" style="margin: -6px 0 0; text-align: center; font-size: 13px; line-height: 1.6; color: #55555c">Phiên tự hết hạn sau 30 phút không hoạt động. Sai mật khẩu 5 lần, tài khoản bị khoá tạm 15 phút.<br>Chưa có tài khoản? <b style="font-weight: 500; color: #141416">Quản trị viên sẽ cấp cho bạn.</b></p>
+</div>
+</div>
+<p class="si-mono" style="margin: 0; display: flex; justify-content: space-between; gap: 12px; flex-wrap: wrap"><span>© 2026 WEBSEC AI</span><span>CHỈ DÙNG CHO LAB ĐÃ ỦY QUYỀN</span></p>
 </section>
+
+<section class="si-hero" aria-label="Hoạt động gần đây trong workspace">
+<div class="si-art a-right"><img src="art/aurora-8.png" alt="" width="720" height="900"></div>
+<p class="si-quote a-in d6">Mỗi project là một thư mục: target, scan, lỗ hổng và report nằm bên trong. Quét trong phạm vi được ủy quyền, xác minh rồi mới đóng.</p>
+<div class="si-cards">
+<div class="si-card a-card d10"><span class="si-av" style="background: #E0F2FE; color: #075985">#128</span><span><b style="font-weight: 600">Scan #128 hoàn tất</b><br><span class="si-mono">SHOP-STAGING · 10:41</span><br><span style="color: #3f3f46">8 finding mới, 1 SQL Injection Critical cần triage.</span></span></div>
+<div class="si-card si-c2 a-card d12"><span class="si-av" style="background: #E3F4EA; color: #146C3B">PL</span><span><b style="font-weight: 600">Phạm Long</b><br><span class="si-mono">VULN-0118 · DEVELOPER</span><br><span style="color: #3f3f46">Đã encode output, gửi lại để xác minh.</span></span></div>
+<div class="si-card si-c3 a-card d14"><span class="si-av" style="background: #141416; color: #fff">AI</span><span><b style="font-weight: 600">AI Advisor</b><br><span class="si-mono">GỢI Ý · ĐÃ CHE SECRET</span><br><span style="color: #3f3f46">Dùng truy vấn tham số hoá cho /search?q.</span></span></div>
 </div>
-</main>
-<p class="lg-mono" style="margin: 0; display: flex; justify-content: space-between; gap: 12px; flex-wrap: wrap"><span>© 2026 WEBSEC AI</span><span>CHỈ DÙNG CHO MÔI TRƯỜNG LAB ĐÃ ỦY QUYỀN</span></p>
+</section>
 </div>
 </body></html>
